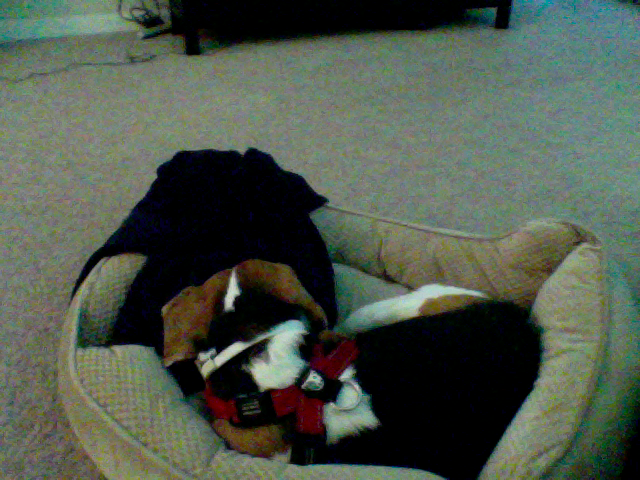
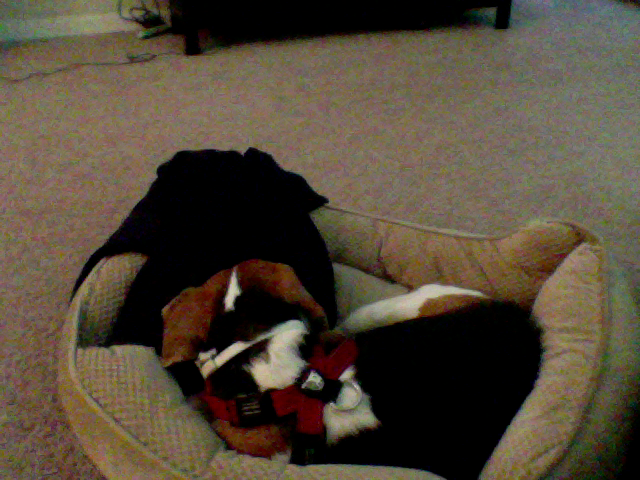
update at Month05Day12Time12:09

diff --git a/index.html b/index.html
@@ -39,8 +39,8 @@
       <!-- Example row of columns -->
       <div class="row">
         <div class="col-md-4">
-	<p>This picture was updated at Month05Day12Time12:08</p>
-		<img src="5_pic.png" />
+	<p>This picture was updated at Month05Day12Time12:09</p>
+		<img src="4_pic.png" />
         </div>
       </div>
 
